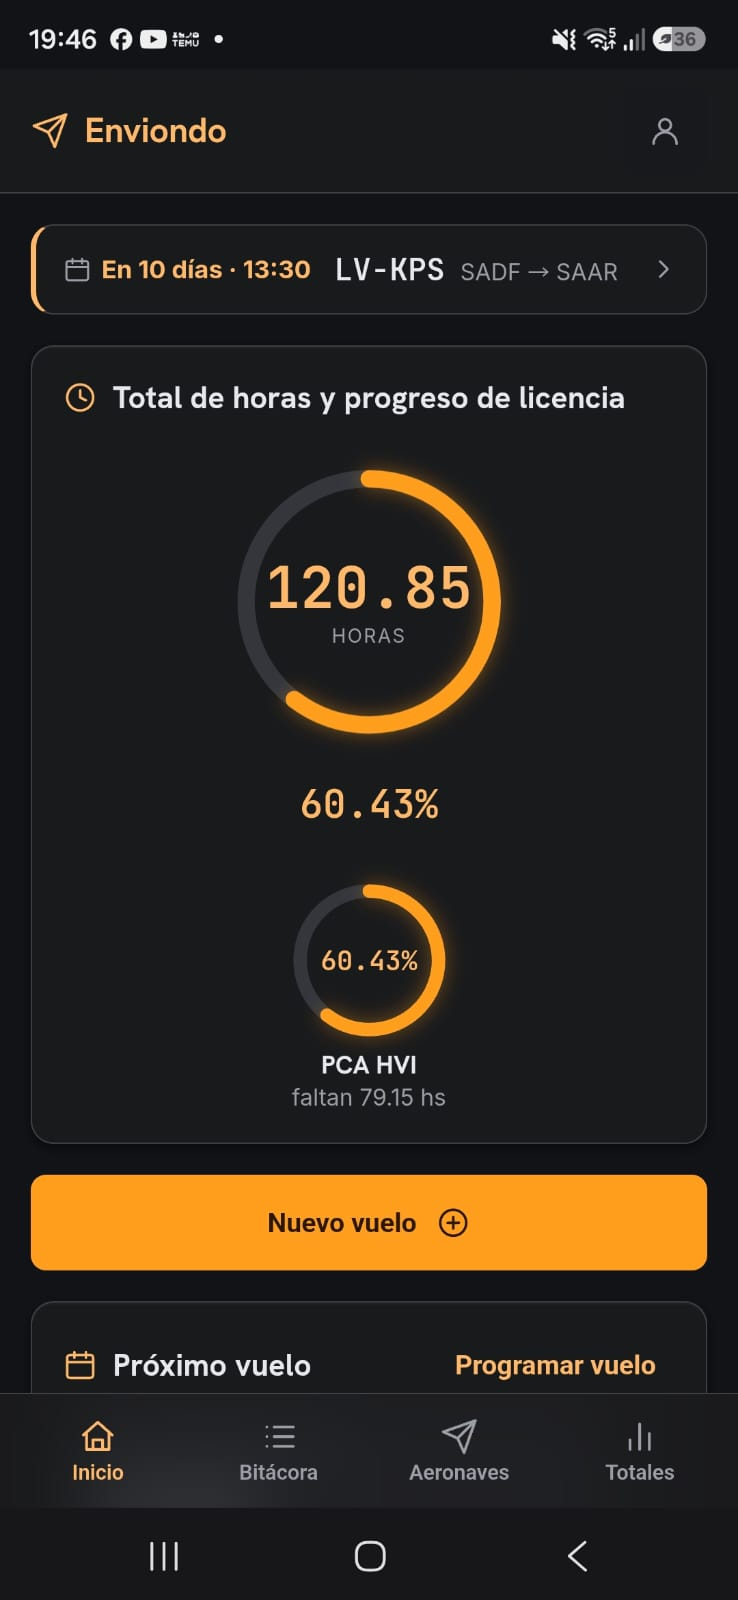
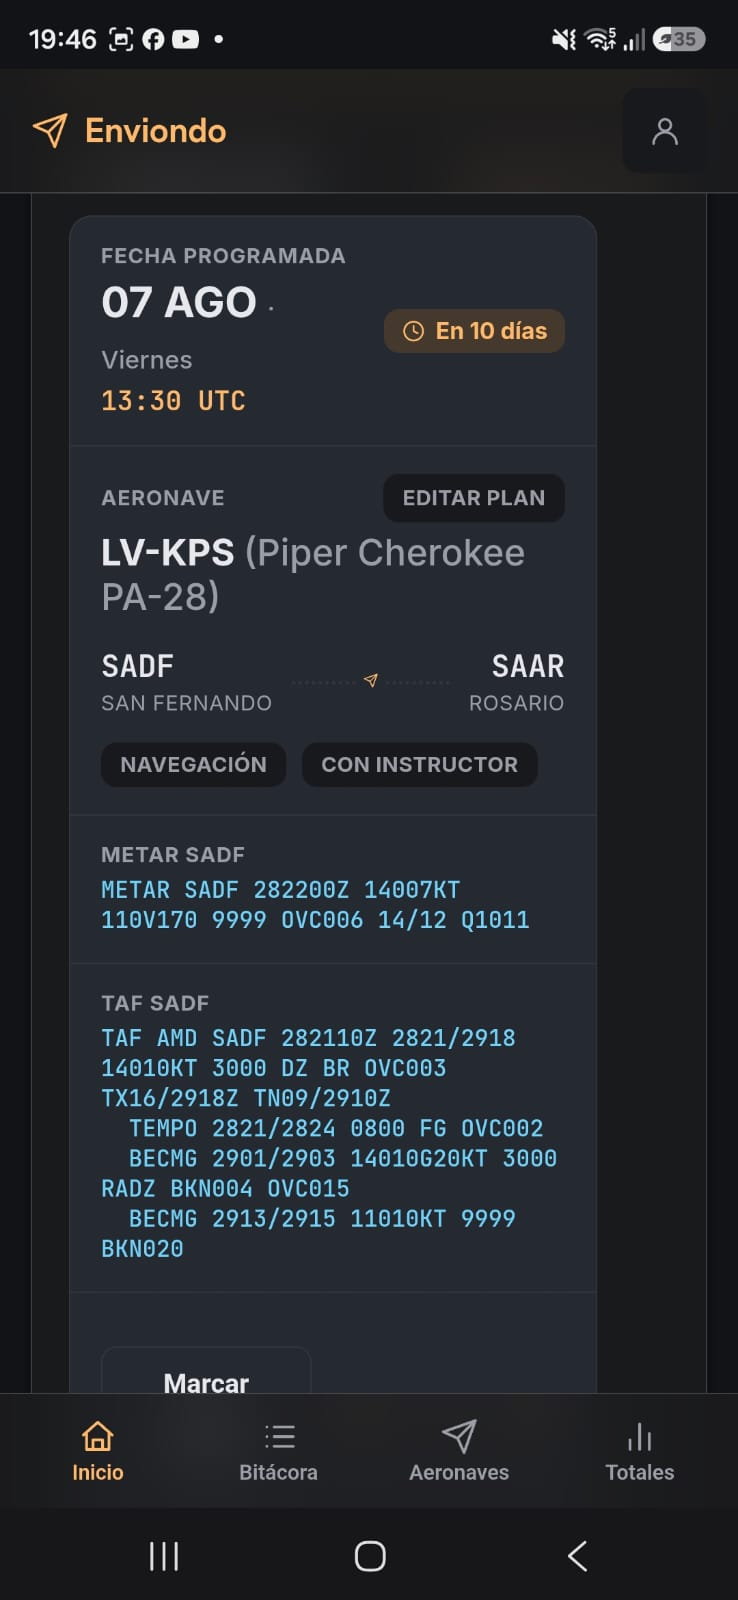
Fix: corrige capturas invertidas y hace legible el hero de la landing
- mobile-dashboard.jpg y mobile-vuelo-programado.jpg estaban invertidos
  (bug de copiado): el cuadro grande del hero mostraba una ficha con
  METAR/TAF ilegible en vez del dashboard con los anillos de progreso.
- Mockup principal del hero ahora usa una captura real (antes vacío,
  solo decía "próximamente").
- Celulares flotantes agrandados (150→190px y 110→160px) y recortados
  para mostrar la parte con más contenido visual, no texto chico.

diff --git a/landing.html b/landing.html
@@ -64,20 +64,19 @@
   .lnd-showcase { position: relative; max-width: 940px; margin: 0 auto; }
   .lnd-showcase-main {
     border: 1px solid var(--border); border-radius: 14px; background: var(--bg-elevated);
-    aspect-ratio: 16/9; display: flex; flex-direction: column; align-items: center; justify-content: center;
-    gap: 10px; color: var(--text-muted);
+    aspect-ratio: 16/9; overflow: hidden; color: var(--text-muted);
   }
-  .lnd-showcase-main .icon { color: var(--border); }
-  .lnd-showcase-main span { font-size: 12px; letter-spacing: 0.04em; }
+  .lnd-showcase-main img { width: 100%; height: 100%; object-fit: cover; object-position: 50% 22%; display: block; }
   .lnd-showcase-float {
-    position: absolute; width: 150px; aspect-ratio: 9/17; border: 1px solid var(--border);
+    position: absolute; width: 190px; aspect-ratio: 9/17; border: 1px solid var(--border);
     border-radius: 20px; background: var(--bg-elevated-2); display: none;
     align-items: center; justify-content: center; color: var(--text-muted); box-shadow: var(--shadow-lg);
     overflow: hidden;
   }
   .lnd-showcase-float img { width: 100%; height: 100%; object-fit: cover; object-position: top; display: block; }
-  .lnd-showcase-float.a { left: -40px; bottom: -30px; transform: rotate(-6deg); }
-  .lnd-showcase-float.b { right: -30px; top: 20%; transform: rotate(8deg); width: 110px; }
+  .lnd-showcase-float.a { left: -50px; bottom: -34px; transform: rotate(-6deg); }
+  .lnd-showcase-float.b { right: -36px; top: 14%; transform: rotate(8deg); width: 160px; }
+  .lnd-showcase-float.b img { object-position: 50% 30%; }
   @media (min-width: 900px) { .lnd-showcase-float { display: flex; } }
 
   .lnd-stats {
@@ -198,11 +197,10 @@
 
   <div class="lnd-showcase">
     <div class="lnd-showcase-main">
-      <span class="icon" id="shot-main-icon"></span>
-      <span>CAPTURA DEL DASHBOARD — PRÓXIMAMENTE</span>
+      <img src="img/landing/mobile-dashboard.jpg" alt="Dashboard de Enviondo: horas totales y progreso de licencia" loading="lazy">
     </div>
-    <div class="lnd-showcase-float a"><img src="img/landing/mobile-dashboard.jpg" alt="Dashboard de Enviondo en el celular" loading="lazy"></div>
-    <div class="lnd-showcase-float b"><img src="img/landing/mobile-vuelo-programado.jpg" alt="Ficha de un vuelo programado en Enviondo" loading="lazy"></div>
+    <div class="lnd-showcase-float a"><img src="img/landing/mobile-bitacora.jpg" alt="Bitácora de vuelos de Enviondo" loading="lazy"></div>
+    <div class="lnd-showcase-float b"><img src="img/landing/mobile-dashboard.jpg" alt="Dashboard de Enviondo en el celular" loading="lazy"></div>
   </div>
 </header>
 
@@ -360,7 +358,6 @@
   const icon = (id, name, size = 20) => document.getElementById(id).innerHTML = Icons[name](size);
   icon('nav-icon', 'plane', 20);
   icon('chip-icon', 'plane', 14);
-  icon('shot-main-icon', 'monitor', 40);
   icon('t-plane', 'plane', 26);
   icon('t-award', 'award', 26);
   icon('t-bell', 'bell', 26);
